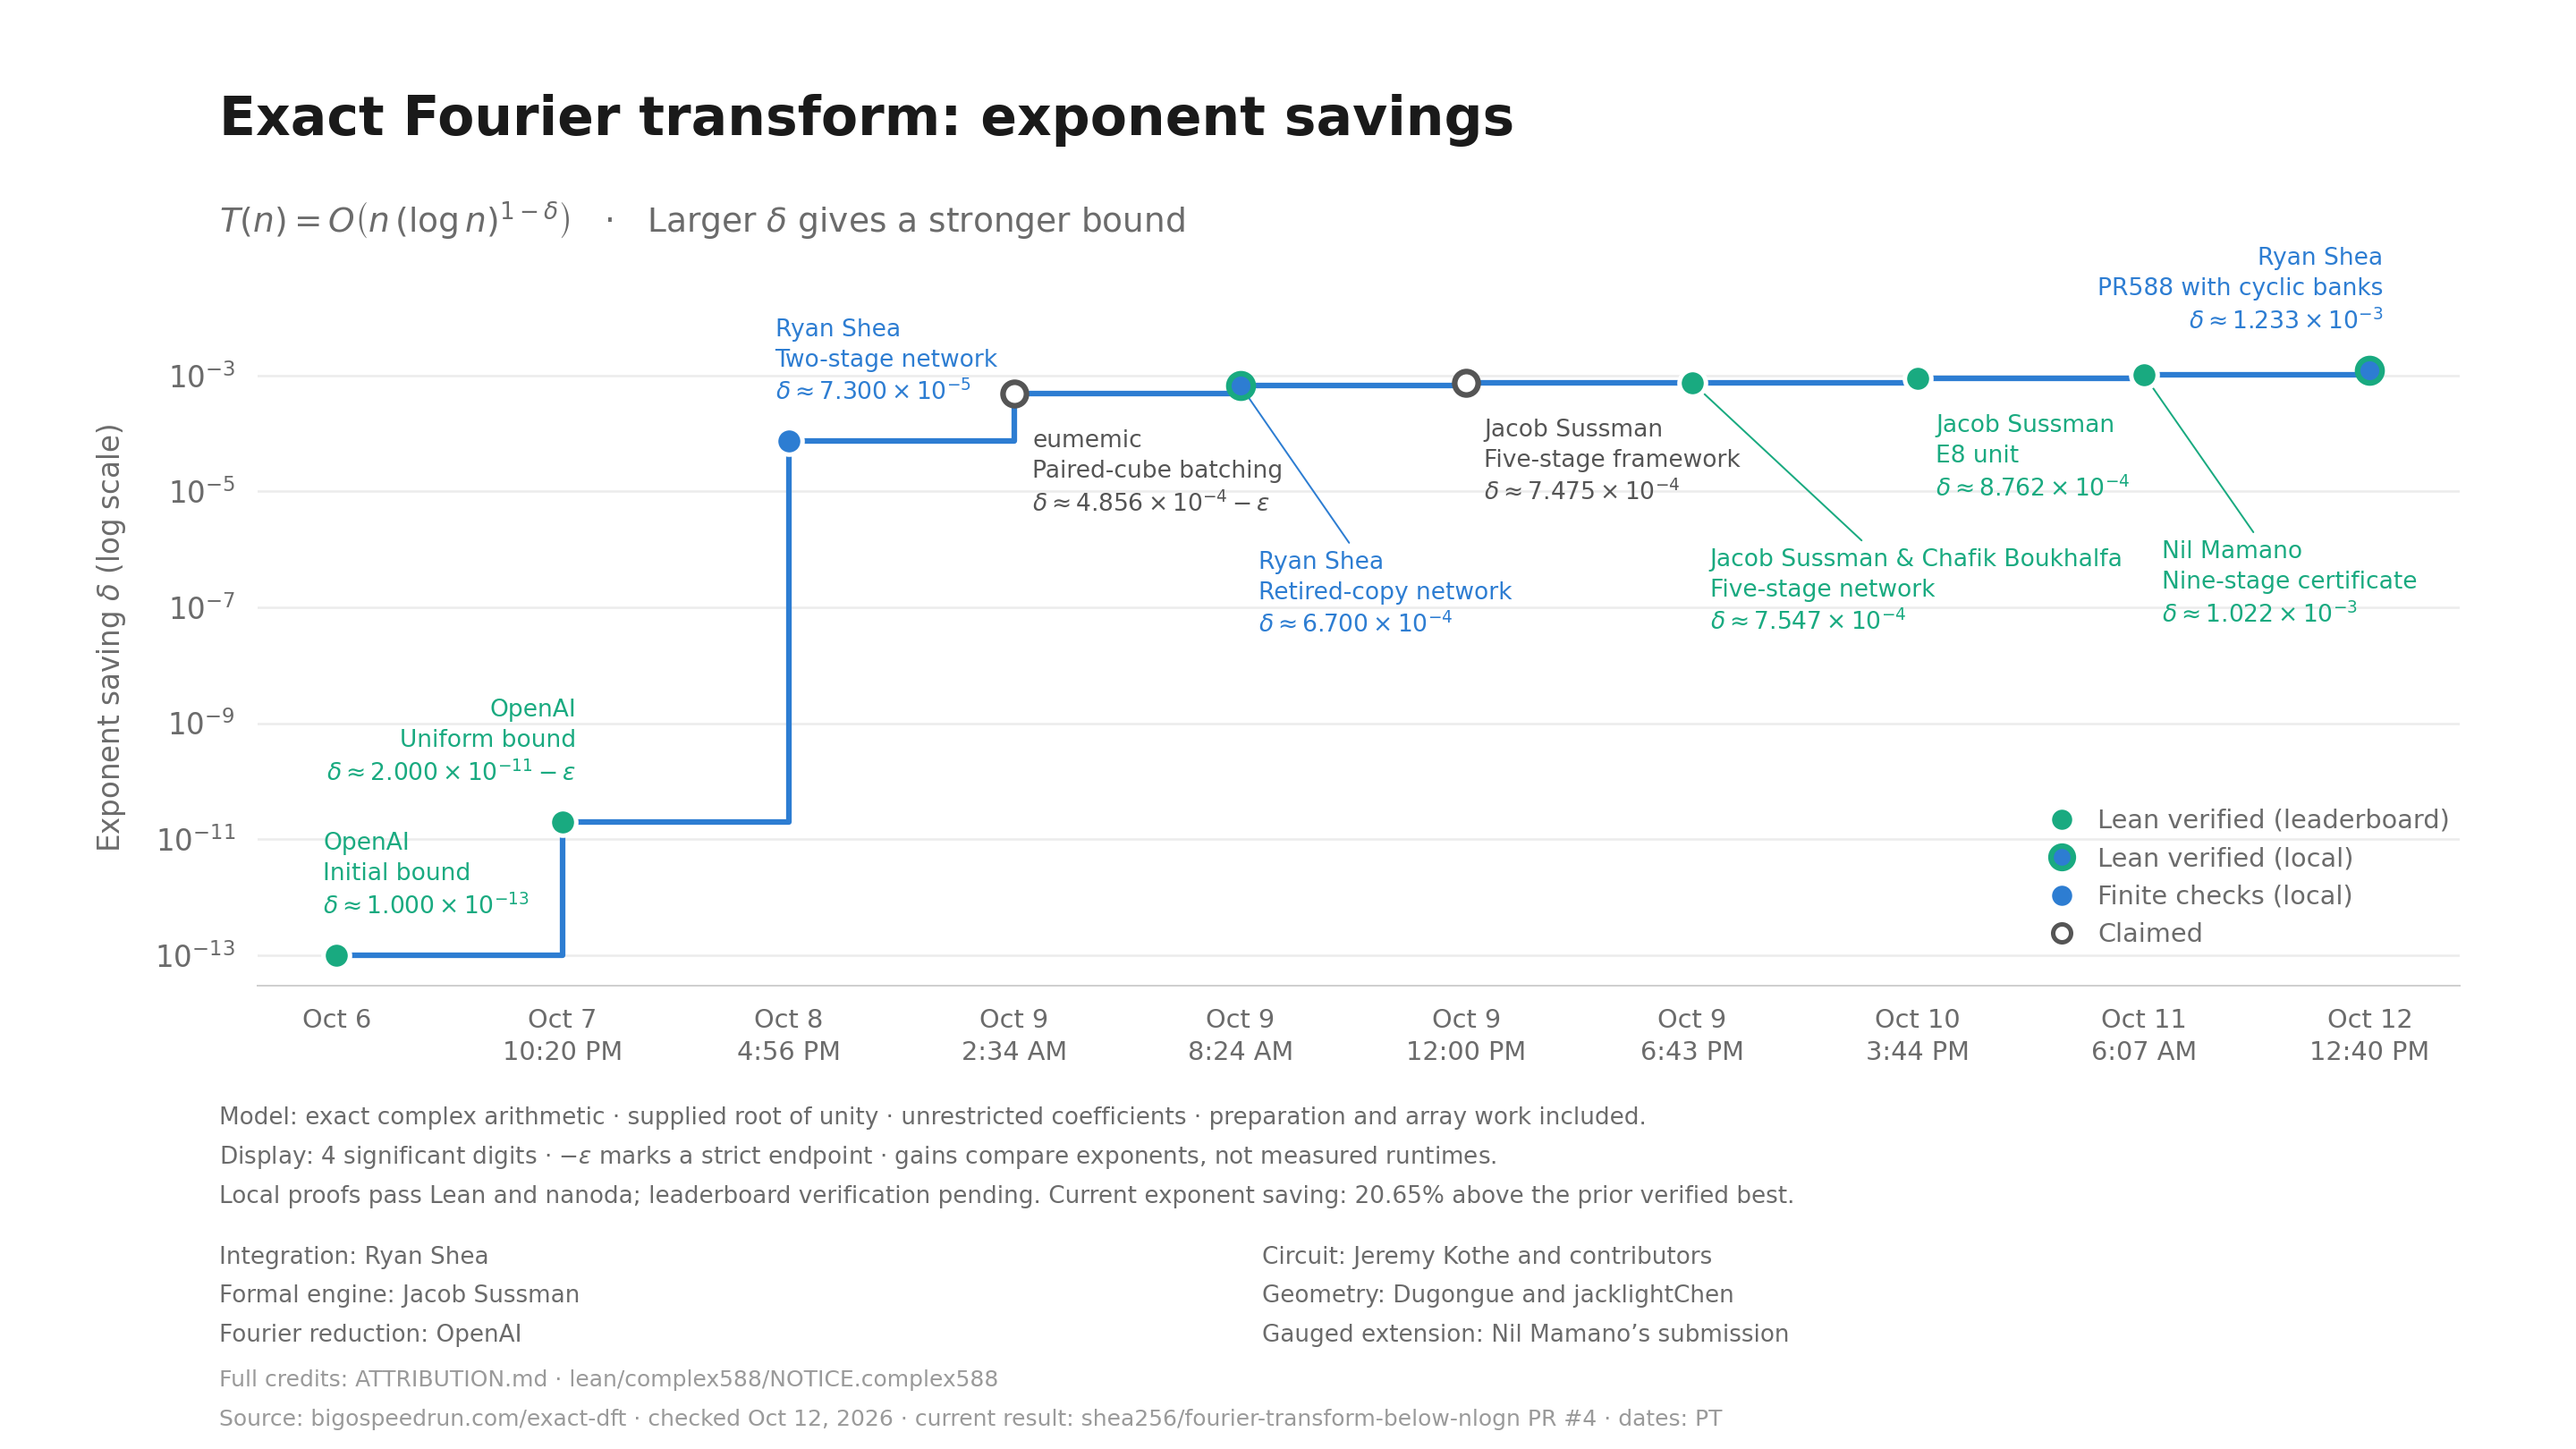
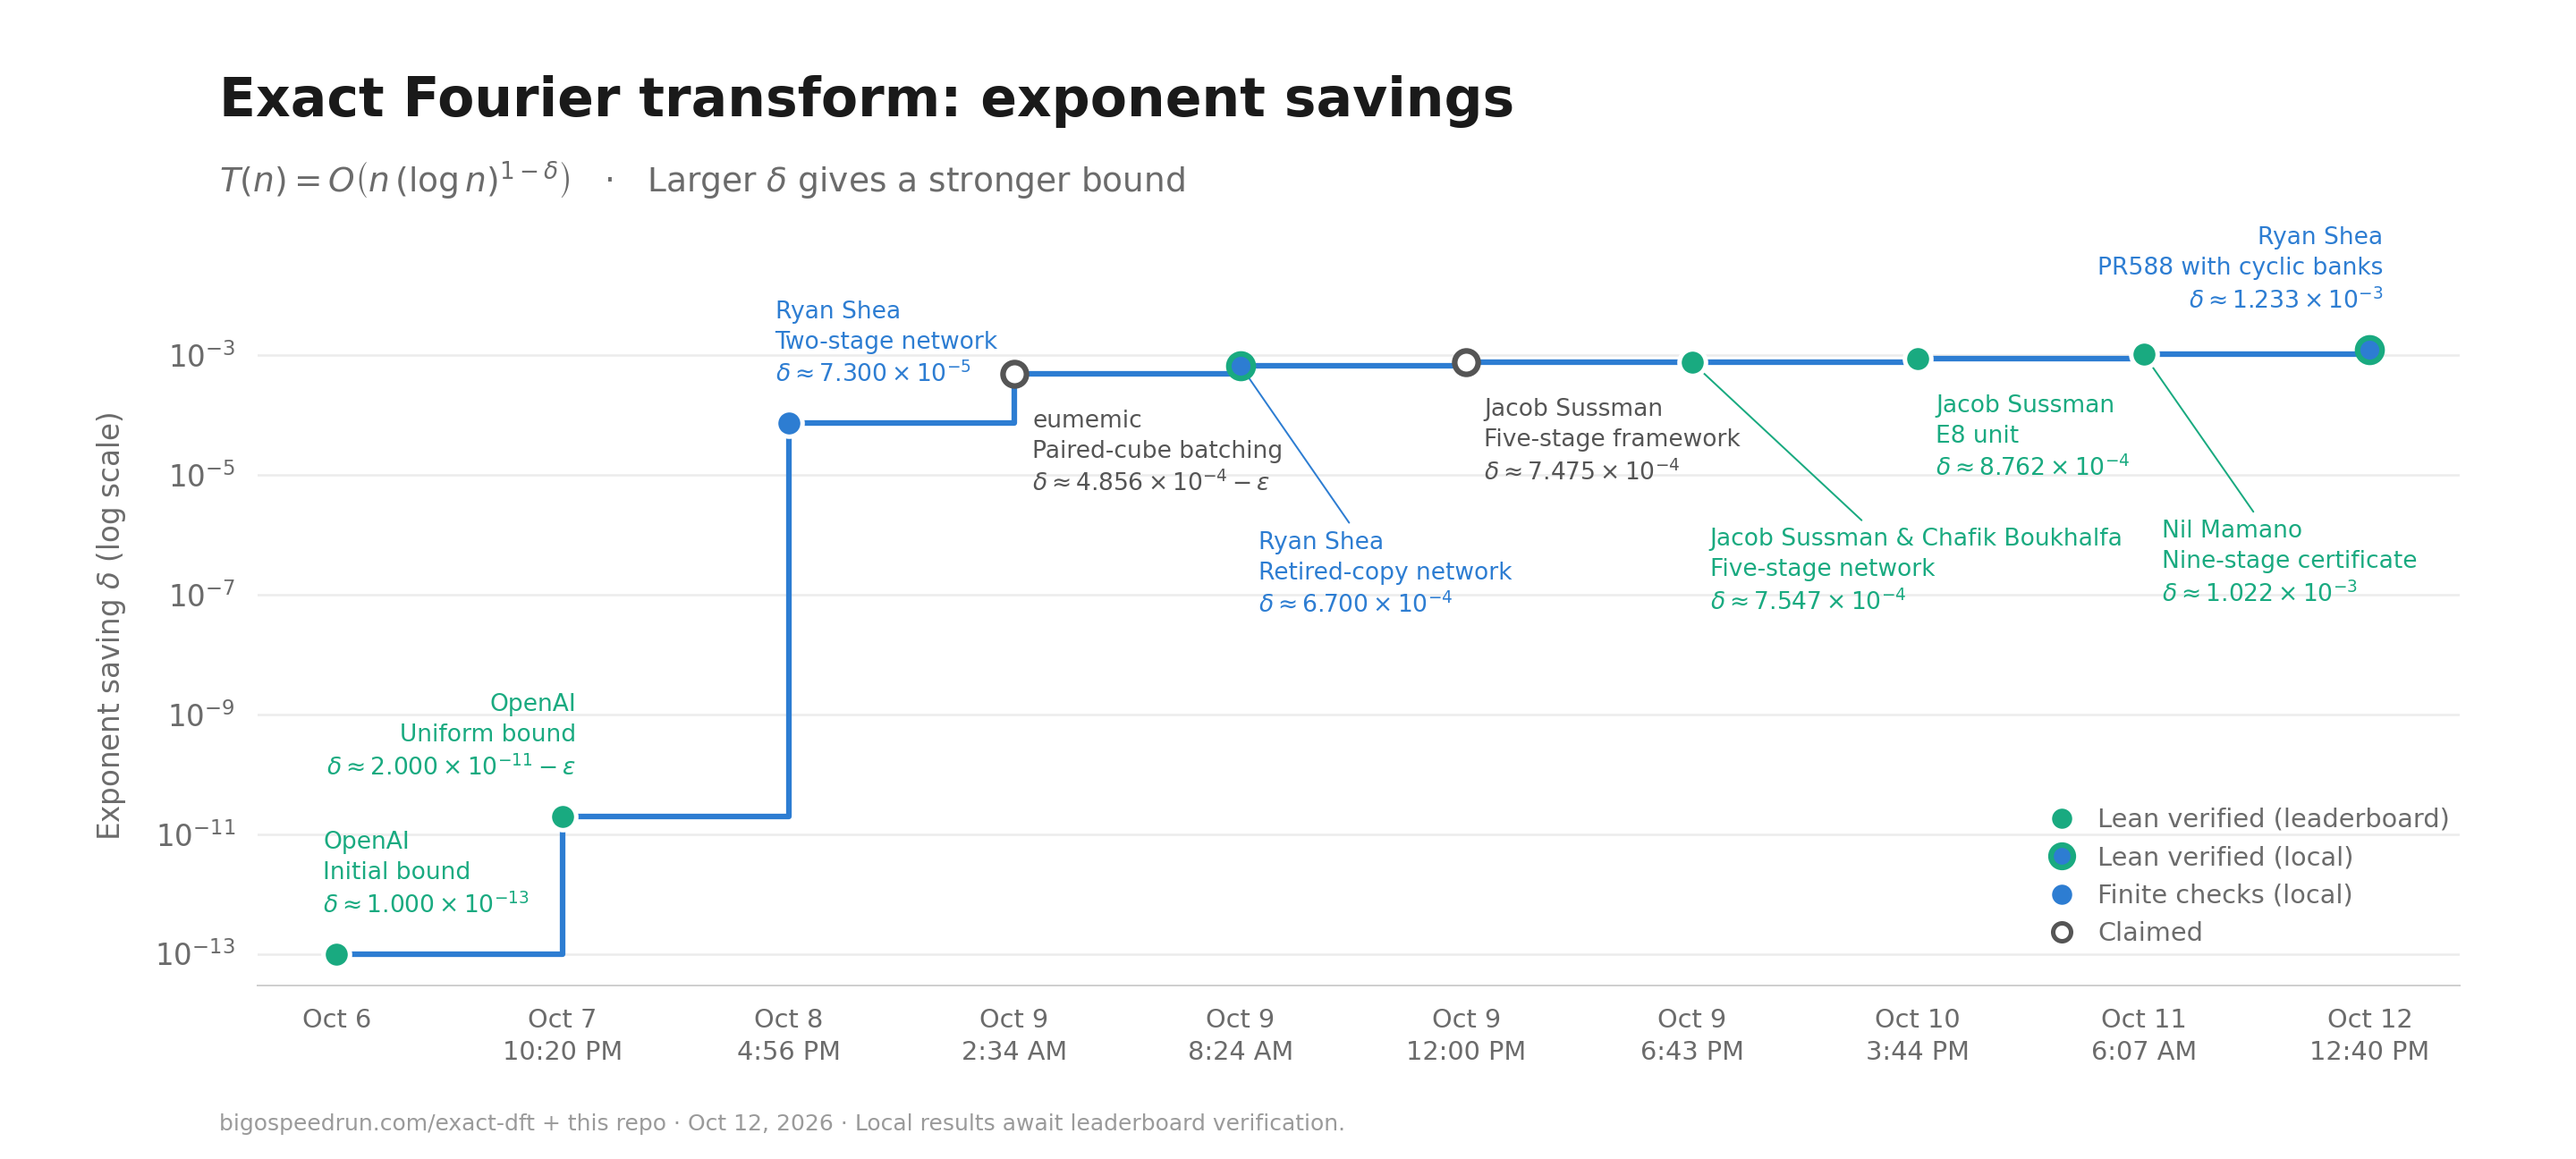
Move detailed chart notes into the README

diff --git a/scripts/render_progress_chart.py b/scripts/render_progress_chart.py
@@ -38,15 +38,14 @@ registry = json.loads((ROOT.parent / 'results/registry.json').read_text())
 current = next(r for r in registry['results'] if r['id'] == registry['current'])
 assert current['id'] == 'complex588', 'update the chart for the new selected result'
 assert scores[-1] == Fraction(current['fourier_saving'])
-saving_gain = float(100 * (scores[-1] / scores[-2] - 1))
 ys = [float(score) for score in scores]
 evidence = [r[5] for r in ROWS]
 gray, blue, green = '#555555', '#2d7dd2', '#19aa80'
 ink, muted, faint = '#1a1a1a', '#6b6b6b', '#9a9a9a'
 L = .085  # shared left margin for all figure text
 plt.rcParams.update({'font.family': 'DejaVu Sans', 'font.size': 13, 'mathtext.fontset': 'dejavusans'})
-fig, ax = plt.subplots(figsize=(16, 9), dpi=180, facecolor='white')
-fig.subplots_adjust(left=L + .015, right=.955, bottom=.32, top=.80)
+fig, ax = plt.subplots(figsize=(16, 7.2), dpi=180, facecolor='white')
+fig.subplots_adjust(left=L + .015, right=.955, bottom=.15, top=.77)
 fig.text(L, .935, 'Exact Fourier transform: exponent savings',
          fontsize=24, color=ink, va='top', fontweight='semibold')
 fig.text(L, .862, r'$T(n) = O\left(n\,(\log n)^{1-\delta}\right)$   ·   Larger $\delta$ gives a stronger bound',
@@ -114,24 +113,8 @@ ax.legend(handles=[
     loc='lower right', bbox_to_anchor=(1.0, 0.04), frameon=False, fontsize=11.5, labelcolor=muted,
     handletextpad=.4, borderaxespad=0)
 
-notes = [
-    'Model: exact complex arithmetic · supplied root of unity · unrestricted coefficients · preparation and array work included.',
-    r'Display: 4 significant digits · $-\varepsilon$ marks a strict endpoint · gains compare exponents, not measured runtimes.',
-    f'Local proofs pass Lean and nanoda; leaderboard verification pending. Current exponent saving: {saving_gain:.2f}% above the prior verified best.',
-]
-for y, text in zip((.224, .197, .170), notes):
-    fig.text(L, y, text, fontsize=10.5, color=muted)
-
-credits = [
-    ('Integration: Ryan Shea', 'Circuit: Jeremy Kothe and contributors'),
-    ('Formal engine: Jacob Sussman', 'Geometry: Dugongue and jacklightChen'),
-    ('Fourier reduction: OpenAI', 'Gauged extension: Nil Mamano\u2019s submission'),
-]
-for y, (left, right) in zip((.128, .101, .074), credits):
-    fig.text(L, y, left, fontsize=10.5, color=muted)
-    fig.text(.49, y, right, fontsize=10.5, color=muted)
-fig.text(L, .043, 'Full credits: ATTRIBUTION.md · lean/complex588/NOTICE.complex588', fontsize=10, color=faint)
-fig.text(L, .016, 'Source: bigospeedrun.com/exact-dft · checked Oct 12, 2026 · current result: shea256/fourier-transform-below-nlogn PR #4 · dates: PT',
+# Model details, display conventions and contributor credits live in the README.
+fig.text(L, .025, 'bigospeedrun.com/exact-dft + this repo · Oct 12, 2026 · Local results await leaderboard verification.',
          fontsize=10, color=faint)
 fig.savefig(ROOT / 'fourier-exponent-progress.png', dpi=180, facecolor='white')
-print('Saved assets/fourier-exponent-progress.png (2880 × 1620).')
+print('Saved assets/fourier-exponent-progress.png (2880 × 1296).')

diff --git a/README.md b/README.md
@@ -4,7 +4,22 @@ A living research project on **OpenAI Math Problem #130**, *An explicit power sa
 
 ![Exact Fourier transform: exponent-saving history and our new strongest bound](assets/fourier-exponent-progress.png)
 
-<sub>Leaderboard history through 2026-10-12 plus our [new result](results/complex588.md), `delta=0.0012331685`: the strongest bound shown, with a 20.65% larger exponent saving than the prior verified best. Its [Lean proof](lean/complex588/) passes the official comparator and both Lean and nanoda kernels locally; leaderboard verification is outstanding. The final date is the publication of [PR #4](https://github.com/shea256/fourier-transform-below-nlogn/pull/4), in PT. The [Big O Speedrun exact-DFT leaderboard](https://bigospeedrun.com/exact-dft) lists our 7.3e-5 and 6.7e-4 results as Claimed. Our 6.7e-4 result also has a [locally checked Lean proof](lean/round11/), using the round-eleven circuit in Sussman's five-stage layout rather than our written transfer. The 7.3e-5 point is backed by exact finite certificates, not Lean. Regenerate with `python3 scripts/render_progress_chart.py` (requires Matplotlib).</sub>
+Our [new bound](results/complex588.md), `delta=0.0012331685`, has a **20.65% larger exponent saving** than the prior verified best shown above.
+
+<details>
+<summary>Chart sources, verification and credits</summary>
+
+The chart combines the [Big O Speedrun exact-DFT leaderboard](https://bigospeedrun.com/exact-dft), checked October 12, 2026, with our new result. Dates are in Pacific Time; the final point uses the publication time of [PR #4](https://github.com/shea256/fourier-transform-below-nlogn/pull/4). Points use the exact scores, while labels are rounded to four significant digits. The `− ε` notation marks a strict endpoint. Comparisons concern exponent savings, not measured runtimes.
+
+The model uses exact complex arithmetic, a supplied root of unity, unrestricted coefficients and unit-cost logarithmic-word indexing. Scalar preparation and array work are included.
+
+Our [new Lean proof](lean/complex588/) passes the official comparator and both Lean and nanoda kernels locally; leaderboard verification is outstanding. The leaderboard lists our earlier 7.3e-5 and 6.7e-4 results as Claimed. The 6.7e-4 result also has a [locally checked Lean proof](lean/round11/), using the round-eleven circuit in Sussman's five-stage layout rather than our written transfer. The 7.3e-5 result has exact finite certificates, not a full Lean proof.
+
+Ryan Shea supplies the conversion and integration; Jeremy Kothe and the credited community predecessors supply the current circuit; Jacob Sussman the formal engine; Dugongue and jacklightChen the geometry; Nil Mamano's submission the gauged extension; and OpenAI the model and Fourier reduction. See the [full attribution](ATTRIBUTION.md) and [preserved notices](lean/complex588/NOTICE.complex588).
+
+Regenerate with `python3 scripts/render_progress_chart.py` (requires Matplotlib).
+
+</details>
 
 <!-- current-result:start -->
 
